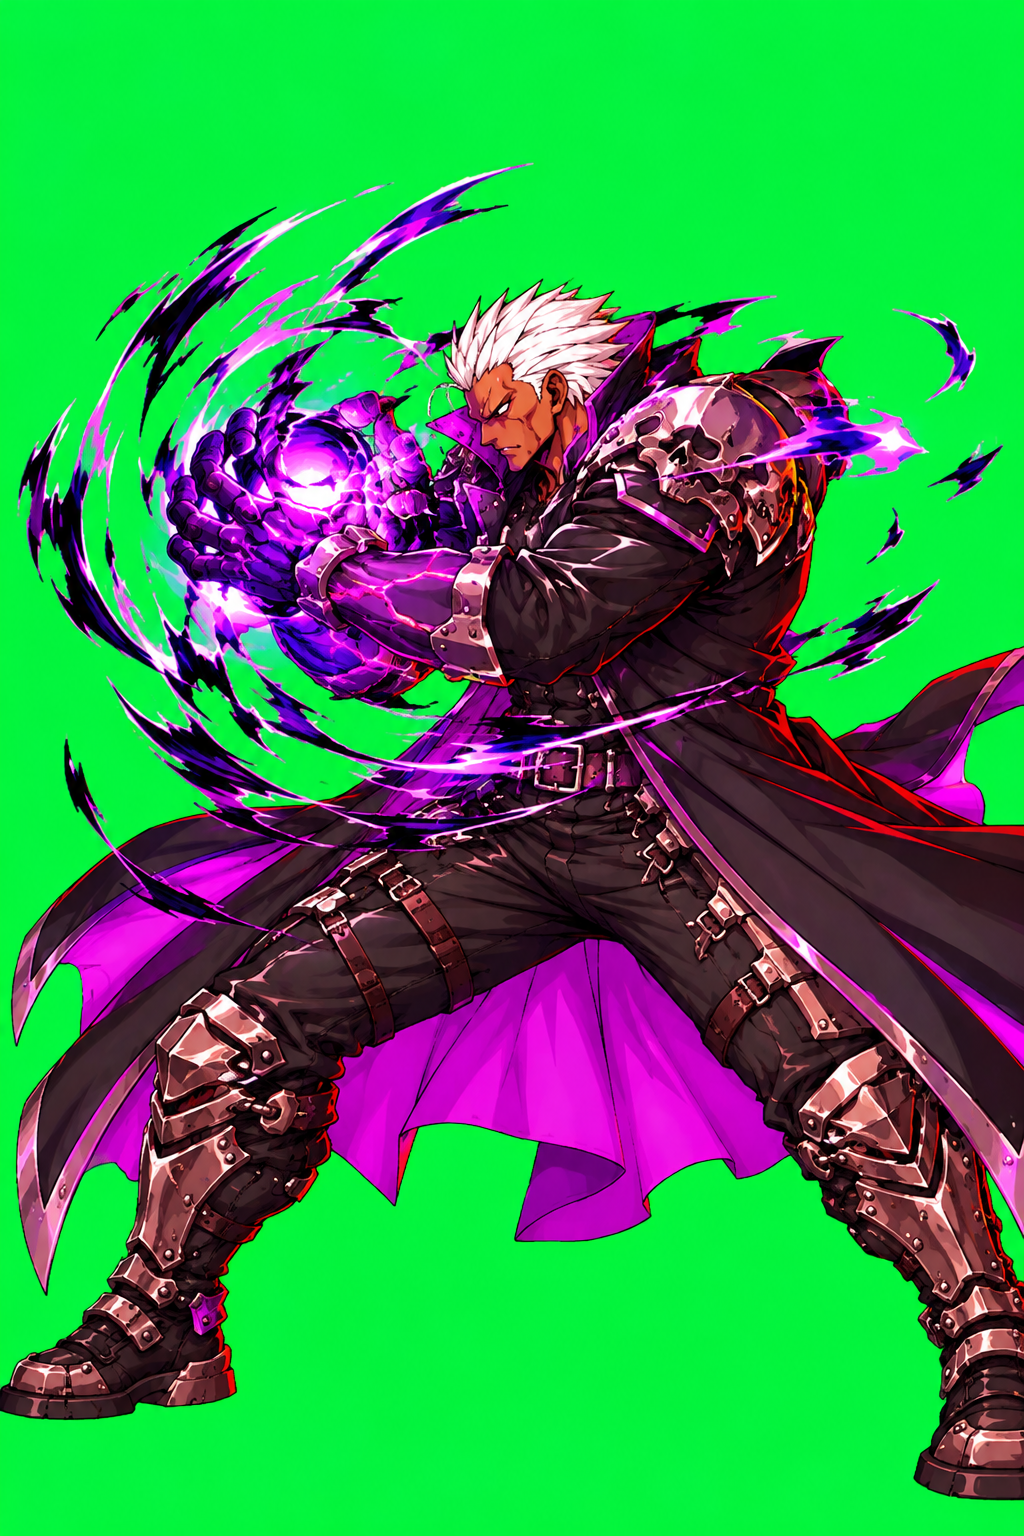
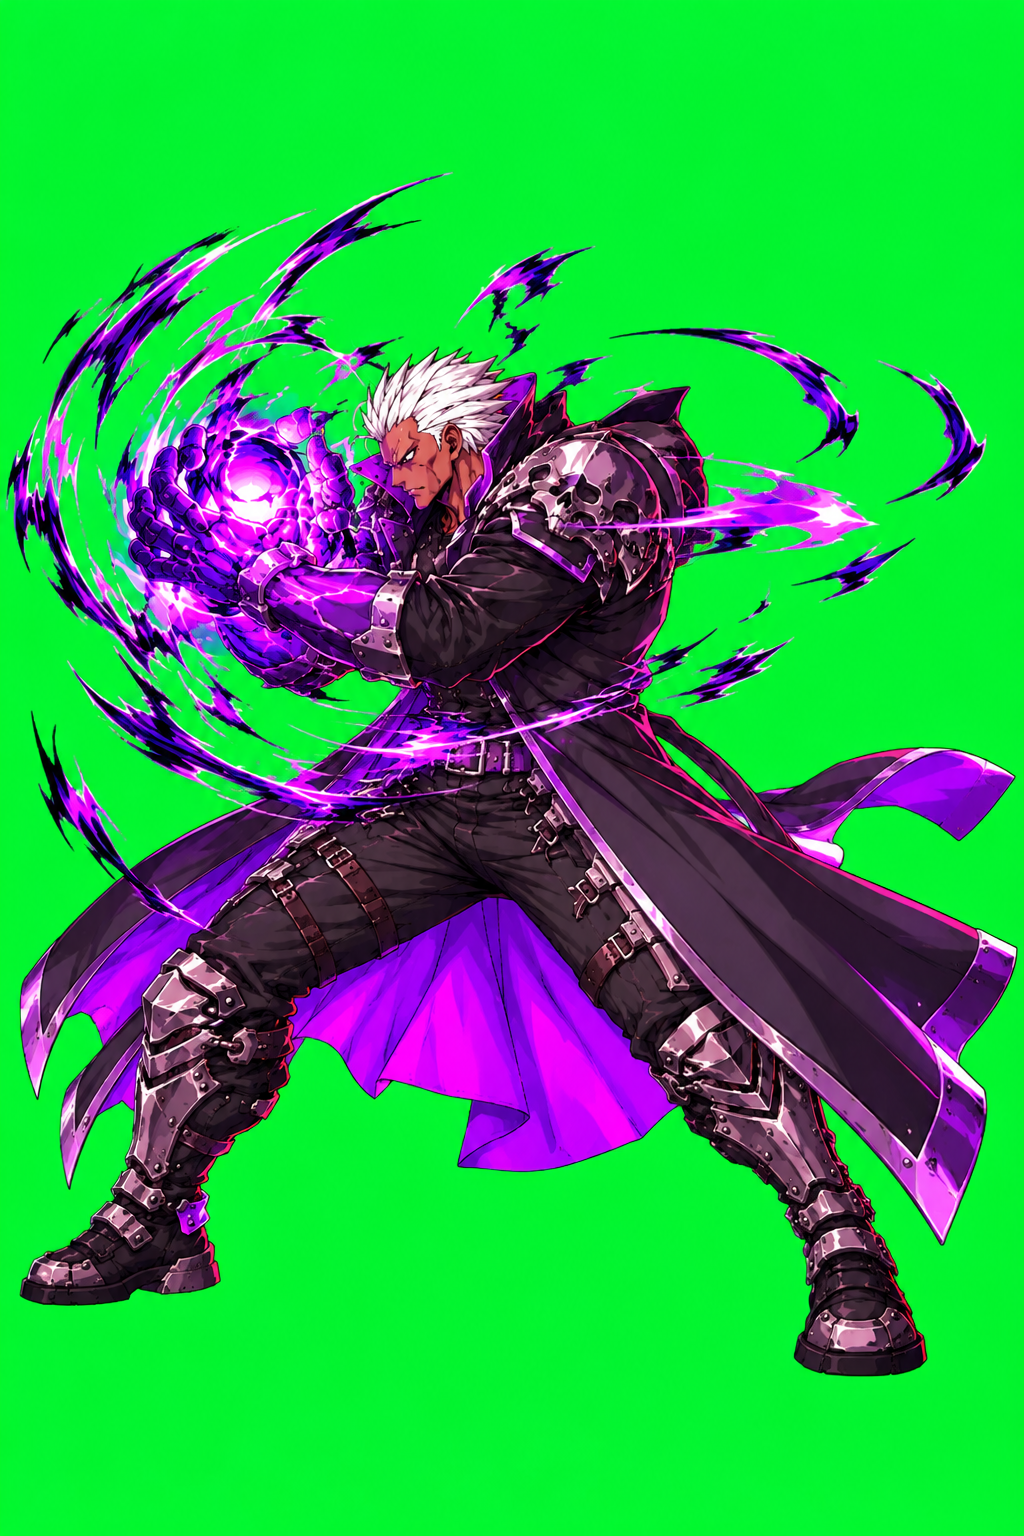
Lab : nouveau dessin de la charge de l'attaque ultime de l'adversaire
Claude-Session: https://claude.ai/code/session_015fMRbsLJa9znv5DiAYkBLj

diff --git a/lab/src/game/rival/RivalLayer.ts b/lab/src/game/rival/RivalLayer.ts
@@ -61,7 +61,7 @@ const POSES = {
   // attaque ultime : mains tendues, puis énergie qui grossit entre ses mains ; calés sur la botte arrière
   ultReady: { file: 'rival/ult-ready.webp', ground: [631, 1459], scale: 1.1 },
   ultCharge1: { file: 'rival/ult-charge-1.webp', ground: [664, 1466], scale: 1.1 },
-  ultCharge2: { file: 'rival/ult-charge-2.webp', ground: [679, 1469], scale: 1.1 },
+  ultCharge2: { file: 'rival/ult-charge-2.webp', ground: [595, 1348], scale: 1.2 },
   // effets du coup spécial (planche fournie par Moussa) : leur cœur lumineux est calé sur la semelle du coup de pied.
   // La traînée grandit en trois dessins ; l'explosion et l'anneau éclatent quand le coup touche.
   fxTrail1: { file: 'rival/fx-trail-1.webp', ground: [745, 1716], scale: 1 },
